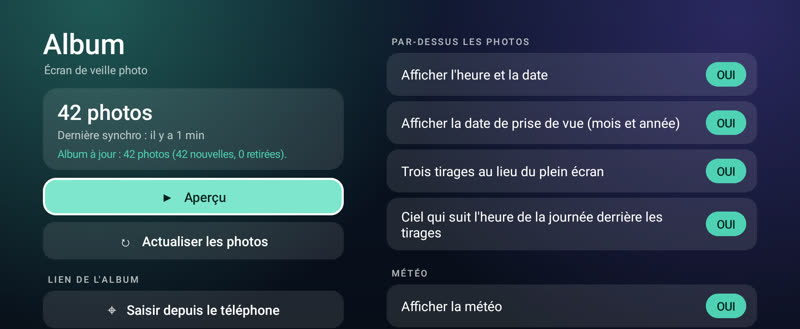
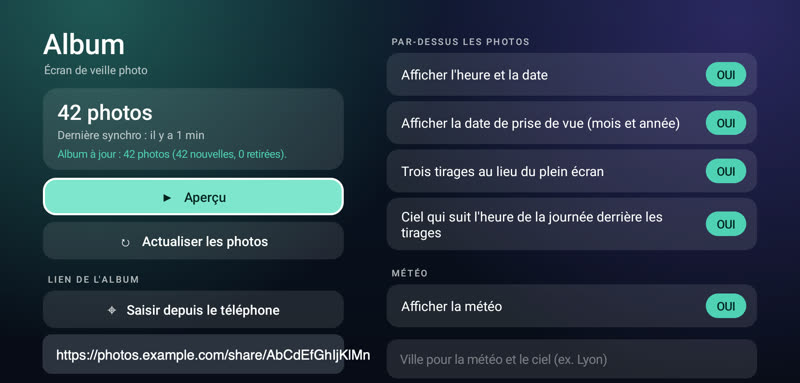
README: settings screenshot with an example album address

diff --git a/README.md b/README.md
@@ -148,7 +148,7 @@ for half of the year).
 
 `docs/` holds the pictures above, taken on a TCL 55C735 with eight NASA photographs (public domain: aurorae seen from the
 International Space Station, the Crab and Lagoon nebulae from Hubble, Mars from Curiosity, Apollo 11) put on the TV by hand instead
-of an album, and the settings app with the album link cropped out. `screenshot.jpg` is the first one, kept for the cleanyourtv
+of an album, and the settings app with the album link replaced by an example address. `screenshot.jpg` is the first one, kept for the cleanyourtv
 showcase.
 
 ## Tests
